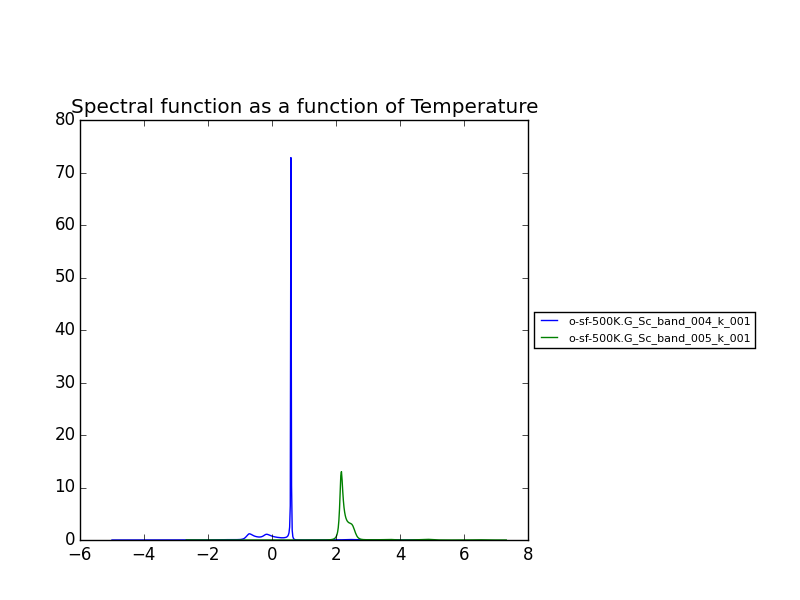
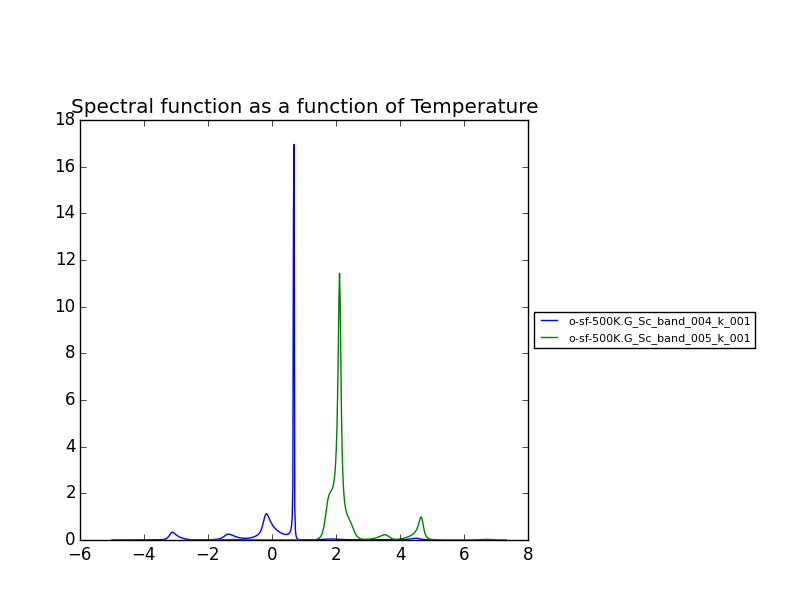
El-Ph
-Tutorial El-Ph
-Minor changes python script.

diff --git a/tutorial/si/elph_qp_si.py b/tutorial/si/elph_qp_si.py
@@ -14,8 +14,9 @@ import argparse
 
 #parse options
 parser = argparse.ArgumentParser(description='Convergence test of the colomb cutoff')
-parser.add_argument('-r' ,'--run',  action="store_true", help='Run the calculation')
-parser.add_argument('-p' ,'--plot', action="store_true", help='Run the analysis')
+parser.add_argument('-r' ,'--run',      action="store_true", help='Run the calculation')
+parser.add_argument('-p' ,'--plot',     action="store_true", help='Run the analysis')
+parser.add_argument('-a' ,'--advanced', action="store_true", help='Run the analysis')
 args = parser.parse_args()
 
 yambo_ph  = 'yambo_ph'
@@ -23,7 +24,7 @@ ypp_ph    = 'ypp_ph'
 
 folder_ya = 'elphon'
 
-temperature = [0, 500, 1000]
+temperature = [500]
 
 # A. Run QPs El-Ph correction
 if args.run:
@@ -68,5 +69,10 @@ if args.plot:
   #        [[1.0, 1.0, 1.0],'$\Gamma$']]
   #ya.plot_gw_path('qp',path,cols=(3,))
   print('plot Spectral Functions')
-  ya.plot_spectral_function('band_004')
-  ya.plot_spectral_function('band_005')
+  ya.plot_spectral_function('band')
+
+# C. Advance options
+
+if args.advanced:
+  # Run
+  yqp.arguments.append('WRgFsq')

diff --git a/tutorial/si/rt_si.py b/tutorial/si/rt_si.py
@@ -97,7 +97,7 @@ if job['calculation']=='tdsex' or 'pump' or 'dissipation':
   run['Potential']  = 'COHSEX' 
   # Time-propagation 
   run['RTstep']     = [  10.0,'as']
-  run['NETime']     = [ 300.0,'fs']
+  run['NETime']     = [   2.0,'ps']
   run['Integrator'] = "RK2 RWA"
   run['IOtime']     = [ [1.000, 1.000, 1.000], 'fs' ] 
   # Pump Pulse
@@ -114,7 +114,7 @@ if job['calculation']=='tdsex':
 # Pumping with finite pulse
 if job['calculation']=='pump' or 'dissipation':
   run['Field1_kind'] = "QSSIN"
-  run['Field1_Damp'] = [  20,'fs']
+  run['Field1_Damp'] = [ 100,'fs']
   run['Field1_Freq'] = [[2.1,0.0],'eV']
 
 if job['calculation']=='pump':

diff --git a/docs/source/tutorial.rst b/docs/source/tutorial.rst
@@ -449,7 +449,7 @@ application in single-layer MoS2 is available here.
 
 .. image:: figures/elph-sf.png
 
-We can play with more options by selecting the appropiate variables from the script ``elph_qp_si.py``. Among the options is to select the Fan or the Debye-Waller
-term, make a calculation on the on-mass-shell approximation, print the Eliashberg functions, etc. 
+We can play with more options by selecting the appropiate variables from the script ``elph_qp_si.py``. For instance we can: (i) select only
+the Fan or Debye-Waller term, (ii) calculation on the on-mass-shell approximation, (iii) print the Eliashberg functions, etc.
 
 
